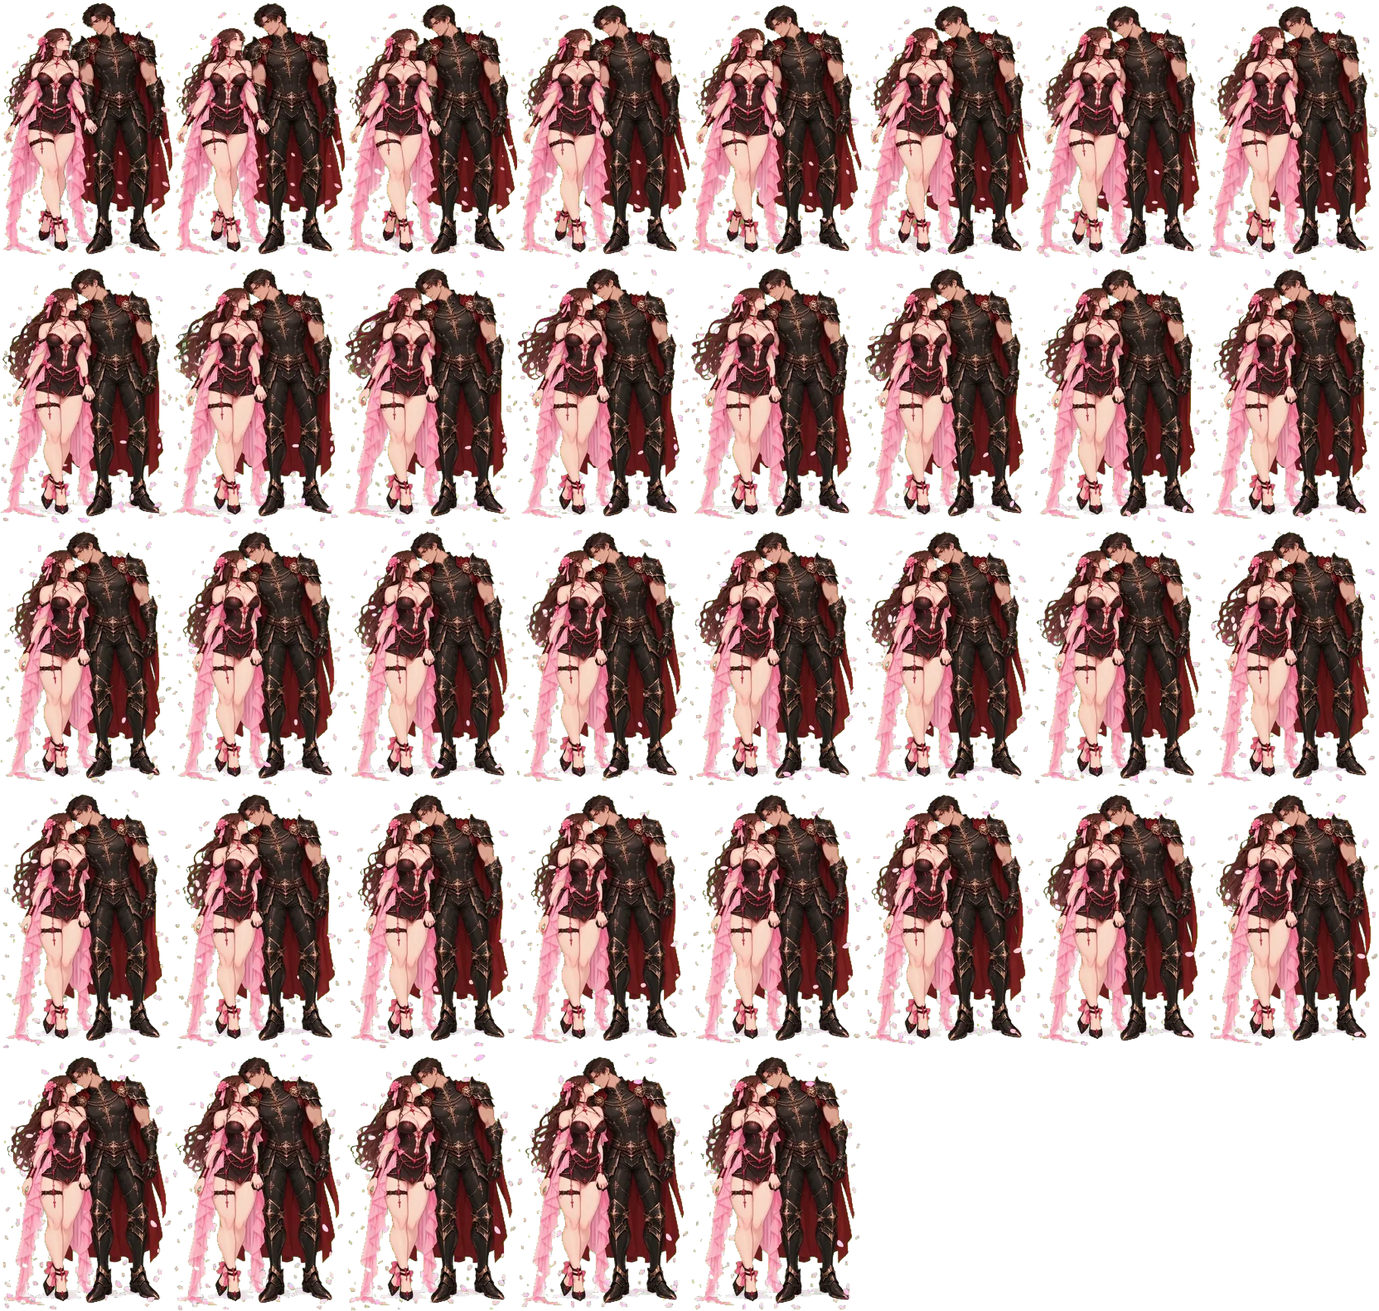
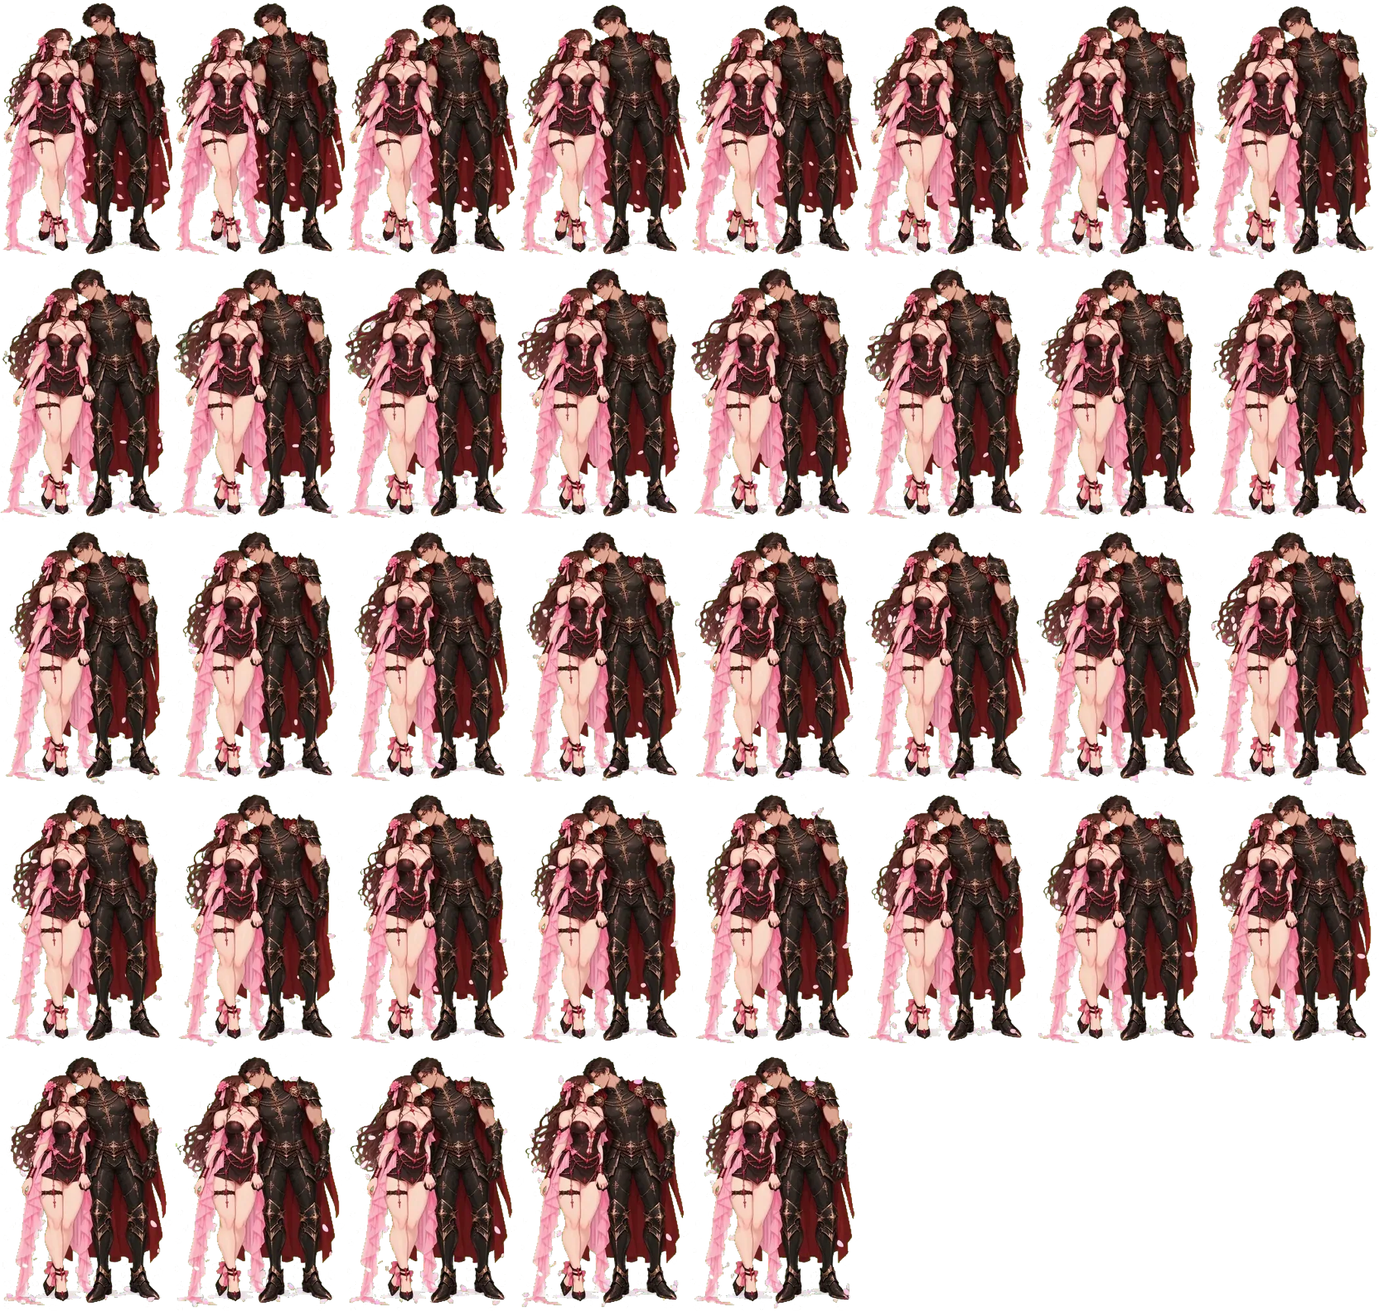
Batalla del reino coreografiada (Ari ataca y salta hacia atrás, onda de choque de Coen, círculo y picos de hielo de Rancek, fuego del dragón); capítulo V: el dibujo empieza en blanco y la pareja se acerca antes de tomarse de la mano; Rancek corriendo sin blancos y más grande

diff --git a/cuento.js b/cuento.js
@@ -355,6 +355,8 @@
         { nombre: 'ari', img: 'assets/personajes/ari-frente.webp', linea: 'assets/personajes/ari-frente-lineart.webp', x: 40, alto: 16, ms: 4200, pausa: 400 },
         { nombre: 'coen', img: 'assets/personajes/coen-frente.webp', linea: 'assets/personajes/coen-frente-lineart.webp', x: 60, alto: 17, ms: 4200,
           texto: { titulo: '…y a Coen,', texto: 'el caballero de capa carmesí.' } },
+        { nombre: 'ari', mueve: 47, ms: 1500, junto: true, sigue: true },                              // se acercan el uno al otro…
+        { nombre: 'coen', mueve: 53, ms: 1500, pausa: 100 },
         { nombre: 'pareja', actor: 'pareja', x: 50, alto: 17, reemplaza: ['ari', 'coen'], efecto: 'brilla', ms: 1800, bucle: [0, 1], cicloMs: 3000,
           texto: { titulo: 'Línea a línea, color a color…', texto: 'se encontraron y se tomaron de la mano.' } },
         { nombre: 'pareja', mueve: 27, ms: 1400, pausa: 100 },                                         // la pareja le hace espacio al logo
@@ -376,17 +378,32 @@
         { nombre: 'arbol', img: 'assets/cuento/popup/arbol.webp', x: 21, alto: 22, fila: 'medio', ms: 300, pausa: 200 },
         { nombre: 'castillo', img: 'assets/cuento/popup/castillo.webp', x: 76, alto: 19, fila: 'medio', ms: 300, pausa: 300 },
         { actor: 'dragon', camina: [0, 1], desde: 50, x: 50, alto: 10, clase: 'vuela', ms: 2600 },          // el dragón despierta y aletea
-        { texto: { titulo: 'Pero de la niebla…', texto: 'salieron monstruitos. Ari saltó con su daga, ágil como el viento, y Coen alzó su espada para protegerla.' }, ms: 300 },
-        { nombre: 'mo1', img: 'assets/cuento/popup/mo-1.webp', x: 62, alto: 7, delante: true, efecto: 'salta', ms: 150, pausa: 100 },
-        { nombre: 'mo2', img: 'assets/cuento/popup/mo-2.webp', x: 72, alto: 7, delante: true, efecto: 'salta', ms: 150, pausa: 100 },
-        { nombre: 'mo3', img: 'assets/cuento/popup/mo-3.webp', x: 82, alto: 7, delante: true, efecto: 'salta', ms: 150, pausa: 100 },
-        { nombre: 'mo4', img: 'assets/cuento/popup/mo-4.webp', x: 91, alto: 7, delante: true, efecto: 'salta', ms: 150, pausa: 300 },
-        { nombre: 'ari', actor: 'ari-salta', x: 38, alto: 18, delante: true, de: 0, a: 1, ms: 2600, pausa: 200 },
-        { nombre: 'coen', actor: 'coen-ataca', x: 50, alto: 16, delante: true, de: 0, a: 1, ms: 2400 },
-        { texto: { titulo: 'Desde el cielo…', texto: 'llegó Rancek volando sobre su báculo, y el dragón lanzó su fuego rosado. ¡Los monstruitos huyeron!' }, ms: 200 },
-        { nombre: 'rancek', img: 'assets/cuento/popup/rancek-vuela.webp', x: 26, alto: 13, clase: 'vuela', efecto: 'flota', ms: 900 },
-        { nombre: 'fuego', img: 'assets/cuento/popup/dragon-fuego.webp', x: 60, alto: 14, clase: 'vuela', reemplaza: 'dragon', ms: 1400 },
-        { quita: ['mo1', 'mo2', 'mo3', 'mo4'], ms: 900 },
+        { texto: { titulo: 'Pero de la niebla…', texto: 'salieron monstruitos.' }, ms: 300 },
+        { actor: 'dragon', ruta: [[0, 50, 0], [1, -16, 8]], ms: 1300, suave: 'ease-in', pausa: 0 },          // el dragón se asusta y se va volando
+        { nombre: 'mo1', img: 'assets/cuento/popup/mo-1.webp', x: 63, alto: 7, delante: true, efecto: 'salta', ms: 150, pausa: 100 },
+        { nombre: 'mo2', img: 'assets/cuento/popup/mo-2.webp', x: 71, alto: 7, delante: true, efecto: 'salta', ms: 150, pausa: 100 },
+        { nombre: 'mo3', img: 'assets/cuento/popup/mo-3.webp', x: 79, alto: 7, delante: true, efecto: 'salta', ms: 150, pausa: 100 },
+        { nombre: 'mo4', img: 'assets/cuento/popup/mo-4.webp', x: 87, alto: 7, delante: true, efecto: 'salta', ms: 150, pausa: 300 },
+        // Ari llega corriendo, ataca a los cuatro con su daga y vuelve de un salto hacia atrás
+        { texto: { titulo: 'Ari corrió hacia ellos…', texto: 'ágil como el viento, y los atacó uno a uno con su daga.' }, nombre: 'ari-corre', img: 'assets/personajes/ari-lado.webp', x: -6, alto: 16, delante: true, clase: 'corre', entra: true, ruta: [[0, -6], [1, 54]], ms: 1500, pausa: 0 },
+        { nombre: 'ari', actor: 'ari-salta', x: 54, alto: 18, delante: true, reemplaza: 'ari-corre', sigue: true, de: 0, a: 1, ms: 2600, pausa: 0,
+          ruta: [[0, 54, 0], [.1, 57, 9], [.2, 60, 1], [.32, 65, 9], [.44, 68, 1], [.56, 73, 9], [.68, 76, 1], [.8, 81, 9], [.92, 84, 1], [1, 84, 1]],
+          fx: [{ tipo: 'tajo', x: 63, ancho: 8, y: 4, tras: 480, golpe: 'mo1' }, { tipo: 'tajo', x: 71, ancho: 8, y: 4, tras: 1100, golpe: 'mo2' }, { tipo: 'tajo', x: 79, ancho: 8, y: 4, tras: 1720, golpe: 'mo3' }, { tipo: 'tajo', x: 87, ancho: 8, y: 4, tras: 2340, golpe: 'mo4' }] },
+        { nombre: 'ari', ruta: [[0, 84, 1, 0], [.5, 62, 26, -200], [1, 38, 0, -360]], ms: 1100, suave: 'ease-out', pausa: 200 },
+        // Coen llega, salta al centro de los monstruos, los golpea con una onda de choque y vuelve a cubrir a Ari
+        { texto: { titulo: 'Entonces llegó Coen…', texto: 'saltó al centro de los monstruos y su espada abrió una onda de choque.' }, nombre: 'coen-corre', img: 'assets/personajes/coen-lado.webp', x: -6, alto: 17, delante: true, clase: 'corre', entra: true, ruta: [[0, -6], [1, 24]], ms: 1200, pausa: 0 },
+        { nombre: 'coen', actor: 'coen-ataca', x: 24, alto: 16, delante: true, reemplaza: 'coen-corre', sigue: true, de: 0, a: 1, ms: 1400, suave: 'cubic-bezier(.3,0,.7,1)', pausa: 0,
+          ruta: [[0, 24, 0], [.55, 58, 30], [1, 75, 0]], fx: { tipo: 'onda', x: 75, ancho: 40, ms: 1000, tras: 1400, golpe: ['mo1', 'mo2', 'mo3', 'mo4'] } },
+        { nombre: 'coen', ruta: [[0, 75, 0], [.5, 60, 20], [1, 45, 0]], ms: 1000, suave: 'ease-out', pausa: 300 },
+        // Rancek llega volando sobre su báculo: círculo mágico bajo los monstruos y picos de hielo
+        { texto: { titulo: 'Desde el cielo…', texto: 'llegó Rancek volando sobre su báculo y abrió un círculo mágico: ¡picos de hielo!' }, nombre: 'rancek', img: 'assets/cuento/popup/rancek-vuela.webp', x: -12, alto: 15, entra: true, ruta: [[0, -12, 30], [1, 24, 15]], ms: 1600, suave: 'ease-out', pausa: 0 },
+        { fx: [{ tipo: 'circulo', x: 75, ancho: 40, ms: 2600 }, { tipo: 'picos', x: 75, ancho: 36, ms: 1700, tras: 900, golpe: ['mo1', 'mo2', 'mo3', 'mo4'] }], ms: 2300 },
+        { nombre: 'rancek', ruta: [[0, 24, 15], [1, 41, 20]], ms: 1100, suave: 'ease-in-out', pausa: 200 },
+        // el dragón vuelve y les lanza su fuego
+        { texto: { titulo: 'Y el dragón rosado…', texto: 'volvió volando y les lanzó su fuego. ¡Los monstruitos desaparecieron!' }, actor: 'dragon', ruta: [[0, -16, 8], [1, 40, 4]], ms: 1500, suave: 'ease-out', pausa: 0 },
+        { nombre: 'fuego', img: 'assets/cuento/popup/dragon-fuego.webp', x: 44, alto: 14, clase: 'vuela espejo', reemplaza: 'dragon', sigue: true, ms: 200, pausa: 0,
+          fx: { tipo: 'llamas', x: 74, ancho: 40, y: 1, ms: 1700, tras: 150, golpe: ['mo1', 'mo2', 'mo3', 'mo4'] } },
+        { muere: ['mo1', 'mo2', 'mo3', 'mo4'], ms: 1500 },
         { quita: ['ari', 'coen', 'rancek', 'fuego'], texto: { titulo: 'Cuando la niebla se despejó…', texto: 'los tres caminaron juntos hacia el castillo. Porque, a pesar de las dificultades, siempre llegarán a la cima: al castillo soñado.' }, ms: 400 },
         { actor: 'dragon', camina: [0, 1], desde: 34, x: 70, alto: 10, clase: 'vuela', ms: 4400, junto: true },   // y vuela hacia el castillo
         { nombre: 'pari', img: 'assets/personajes/ari-lado.webp', camina: [0, 0], desde: 16, x: 50, alto: 16, ms: 4200, delante: true, junto: true },
@@ -407,7 +424,7 @@
     paseo: { carpeta: 'cap6/', hitos: [
       { fondo: 'fondo-paseo.webp', suelo: 'suelo-paseo.webp', titulo: 'Con sus compras puestas…', texto: 'Ari con su vestido de chica mágica y sus botas de plataforma; Coen con su jogger blanco y su polera burdeo.', pasos: [
         { nombre: 'pareja', actor: 'paseo', camina: [0, 1], cicloMs: 1500, desde: 12, x: 58, alto: 17, ms: 5200, delante: true },   // salen a pasear por el reino
-        { texto: { titulo: 'Rancek:', texto: '«¡Espérenme! ¡Yo también voy!»' }, nombre: 'rancek', actor: 'rancek-corre', camina: [0, 1], cicloMs: 900, desde: 4, x: 32, alto: 13, ms: 2600, delante: true }   // y Rancek corre detrás
+        { texto: { titulo: 'Rancek:', texto: '«¡Espérenme! ¡Yo también voy!»' }, nombre: 'rancek', actor: 'rancek-corre', camina: [0, 1], cicloMs: 900, desde: 4, x: 32, alto: 16, ms: 2600, delante: true }   // y Rancek corre detrás
       ] }
     ] },
     vii: { carpeta: 'cap7/', hitos: [
@@ -562,6 +579,7 @@
       } else {
         const t = await tam(ruta(esc, p.img)); w = t.w; hh = t.h; a.classList.add('hito-fija');
         a.innerHTML = '<img alt="" src="' + ruta(esc, p.img) + '">' + (p.linea ? '<img class="hito-linea" alt="" src="' + ruta(esc, p.linea) + '">' : '');
+        if (p.linea) a.classList.add('por-dibujar');
       }
       a._ancho = p.ancho ?? p.alto * w / hh;
       a.classList.add('hito-pop', 'hito-actor'); if (p.delante) a.classList.add('delante'); if (p.fila) a.classList.add('fila-' + p.fila); if (p.clase) a.classList.add(...p.clase.split(' '));
@@ -578,6 +596,25 @@
     });
     // animación que sigue viva en bucle (ida y vuelta, sin salto) mientras la escena esté a la vista
     const vivir = (a, c0, c1, ms, mia) => { if (quieto || c1 <= c0) return; const t0 = performance.now(); a._vive = t0; const paso = t => { if (mia !== vuelta || !a.isConnected || a._vive !== t0) return; const u = ((t - t0) % (2 * ms)) / ms; cuadro(a, c0 + (c1 - c0) * (u < 1 ? u : 2 - u)); requestAnimationFrame(paso); }; requestAnimationFrame(paso); };
+    // recorrido con saltos: puntos [t 0–1, x %, alto sobre el piso (% de la escena), giro°, espejo ±1]
+    const recorrer = (a, p, mia) => new Promise(fin => {
+      a._vive = null; const H = zona.offsetHeight || 1, pts = p.ruta, ms = p.ms || 1200;
+      const kf = pts.map(([t, x, y = 0, g = 0, e = 1]) => ({ offset: t, left: (x - a._ancho / 2) + '%', translate: '0 0 ' + ((y / 100) * H).toFixed(1) + 'px', rotate: 'y ' + g + 'deg', scale: e + ' 1' }));   // el piso está acostado: subir es el eje Z y el giro de un salto, alrededor de la profundidad
+      const fin0 = pts[pts.length - 1];
+      const cerrar = () => { a.style.left = (fin0[1] - a._ancho / 2) + '%'; a.style.translate = '0 0 ' + (((fin0[2] || 0) / 100) * H).toFixed(1) + 'px'; a.style.rotate = 'y ' + (fin0[3] || 0) + 'deg'; a.style.scale = (fin0[4] ?? 1) + ' 1'; };
+      if (quieto) { cerrar(); fin(true); return; }
+      const an = a.animate(kf, { duration: ms, easing: p.suave || 'linear', fill: 'forwards' });
+      const t0 = performance.now(), m = a._m, c0 = m && p.de != null ? m.marcas[p.de] : null, c1 = m && p.a != null ? m.marcas[p.a] : null;
+      if (c0 != null) { const paso = t => { if (mia !== vuelta || !a.isConnected) return; const u = Math.min(1, (t - t0) / ms); cuadro(a, c0 + (c1 - c0) * u); if (u < 1) requestAnimationFrame(paso); }; requestAnimationFrame(paso); }
+      an.onfinish = () => { cerrar(); an.cancel(); fin(mia === vuelta); };
+    });
+    // efectos dibujados sobre el piso: tajo, onda, círculo mágico, picos de hielo, llamas, humo
+    const efecto = (tipo, x, ancho = 10, y = 0, ms = 900) => {
+      const e = document.createElement('div'); e.className = 'hito-fx fx-' + tipo; e.style.left = (x - ancho / 2) + '%'; e.style.width = ancho + '%'; e.style.setProperty('--z', ((y / 100) * (zona.offsetHeight || 1)).toFixed(1) + 'px'); e.style.setProperty('--ms', ms + 'ms');
+      if (tipo === 'picos') e.innerHTML = '<i></i><i></i><i></i><i></i><i></i><i></i><i></i>';
+      if (tipo === 'llamas' || tipo === 'humo') e.innerHTML = '<i></i><i></i><i></i><i></i><i></i>';
+      zona.append(e); setTimeout(() => e.remove(), ms + 200);
+    };
     const caminar = (a, p, mia) => new Promise(fin => {
       const m = a._m, c0 = m ? m.marcas[p.camina[0]] : 0, c1 = m ? m.marcas[p.camina[1]] : 0, t0 = performance.now(), CICLO = p.cicloMs || 1000; a._vive = null;
       a.classList.add('camina'); a.classList.toggle('camina-fija', c1 <= c0);
@@ -592,7 +629,7 @@
     });
     // imagen que se dibuja sola: primero la línea (de arriba hacia abajo) y luego el color
     const dibujar = (a, ms, mia) => new Promise(fin => {
-      a.style.setProperty('--dur', ms + 'ms'); a.classList.add('dibuja');
+      a.style.setProperty('--dur', ms + 'ms'); a.classList.add('dibuja'); a.classList.remove('por-dibujar');
       luego(() => { a.classList.add('colorea'); luego(() => fin(mia === vuelta), ms * .5); }, ms * .65);
     });
     const espera = (ms, mia) => new Promise(fin => luego(() => fin(mia === vuelta), ms));
@@ -617,18 +654,22 @@
         if (p.quita) { [].concat(p.quita).forEach(plegar); if (!(await espera(500, mia))) return; }
         if (p.texto) { if (titulo && p.texto.titulo != null) titulo.textContent = p.texto.titulo; if (texto) texto.textContent = p.texto.texto ?? ''; }
         if (p.app) window.dispatchEvent(new CustomEvent('cuento-app', { detail: { abrir: p.app } }));
+        if (p.fx) [].concat(p.fx).forEach(f => luego(() => { if (mia !== vuelta) return; efecto(f.tipo, f.x, f.ancho, f.y, f.ms); [].concat(f.golpe || []).forEach(n => { const g = actores[n]; if (g) { g.classList.remove('golpeado'); void g.offsetWidth; g.classList.add('golpeado'); } }); }, f.tras || 0));
+        if (p.golpe) [].concat(p.golpe).forEach(n => { const g = actores[n]; if (g) { g.classList.remove('golpeado'); void g.offsetWidth; g.classList.add('golpeado'); } });
+        if (p.muere) [].concat(p.muere).forEach((n, i) => { const g = actores[n]; if (!g) return; delete actores[n]; luego(() => { const x = parseFloat(g.style.left) + g._ancho / 2; g.classList.add('muere'); efecto('humo', x, g._ancho * 1.4, 0, 1000); setTimeout(() => g.remove(), 700); }, i * 120); });
         if (p.evento) { const ev = p.evento; luego(() => { if (mia === vuelta) window.dispatchEvent(new CustomEvent(ev, { detail: { zona } })); }, p.ms || 400); }
         if (!nombre(p)) { if (!(await espera(p.ms || 600, mia))) return; continue; }
         const nuevo = !actores[nombre(p)];
-        const a = await actor(p, p.d ?? .1, !!p.reemplaza);
+        const a = await actor(p, p.d ?? .1, !!p.reemplaza || !!p.entra);   // entra: llega corriendo o volando desde fuera, sin levantarse del papel
         if (p.reemplaza) [].concat(p.reemplaza).forEach(sacar);
-        if (!(nuevo ? false : p.sigue) && !(await espera(nuevo && !p.reemplaza ? 1100 : 300, mia))) return;   // sigue: encadenado al paso anterior, sin respiro
+        if (!(nuevo ? p.entra || (p.reemplaza && p.sigue) : p.sigue) && !(await espera(nuevo && !p.reemplaza ? 1100 : 300, mia))) return;   // sigue: encadenado al paso anterior, sin respiro
         if (p.efecto) a.classList.add(p.efecto);
         if (p.abre && !a.dataset.abre) { a.dataset.abre = p.abre; a.classList.add('clicable'); a.addEventListener('click', () => window.dispatchEvent(new CustomEvent('cuento-app', { detail: { abrir: p.abre } }))); }
         if (p.rotulo && !a.querySelector('.hito-rotulo')) { const r = document.createElement('span'); r.className = 'hito-rotulo'; r.textContent = p.rotulo; a.append(r); }
         let ok;
-        if (p.junto) { if (p.camina) caminar(a, p, mia); else if (a._m && p.a != null) tramo(a, a._m.marcas[p.de ?? 0], a._m.marcas[p.a], p.ms, mia); if (!p.sigue) await espera(120, mia); continue; }   // junto: corre a la par del paso siguiente
+        if (p.junto) { if (p.ruta) recorrer(a, p, mia); else if (p.mueve != null) { a.style.transition = 'left ' + (p.ms || 1200) + 'ms cubic-bezier(.45,0,.3,1)'; a.style.left = (p.mueve - a._ancho / 2) + '%'; } else if (p.camina) caminar(a, p, mia); else if (a._m && p.a != null) tramo(a, a._m.marcas[p.de ?? 0], a._m.marcas[p.a], p.ms, mia); if (!p.sigue) await espera(120, mia); continue; }   // junto: corre a la par del paso siguiente
         if (p.mueve != null) ok = await new Promise(fin => { a.style.transition = 'left ' + (p.ms || 1200) + 'ms cubic-bezier(.45,0,.3,1)'; a.style.left = (p.mueve - a._ancho / 2) + '%'; luego(() => { a.style.transition = ''; fin(mia === vuelta); }, p.ms || 1200); });
+        else if (p.ruta) ok = await recorrer(a, p, mia);
         else if (p.camina) ok = await caminar(a, p, mia);
         else if (p.linea) ok = await dibujar(a, p.ms || 3000, mia);
         else if (a._m && p.a != null) ok = await tramo(a, a._m.marcas[p.de ?? 0], a._m.marcas[p.a], p.ms, mia);

diff --git a/libro.css b/libro.css
@@ -1967,3 +1967,44 @@ html.pantalla-corta .cielo-izq{left:-22vw}html.pantalla-corta .cielo-der{right:-
 .giro-virtual::before,.giro-virtual::after,.giro-virtual > .pagina::before,.giro-virtual > .pagina::after{display:none!important}
 .giro-virtual > .pagina > :not(.pop-escena),.giro-virtual .pop-escena > :not([data-giro]){visibility:hidden!important}
 .libro.acostado .pag.giro-virtual.giro-virtual{background:none!important}
+
+/* ✦ capítulo V: el dibujo empieza en blanco y se traza antes de colorearse */
+.hito-fija.por-dibujar > img{opacity:0}
+/* ✦ batalla del reino: correr, recibir golpes, desaparecer y los efectos dibujados */
+.hito-actor.corre > *{animation:hito-corre .3s ease-in-out infinite alternate}
+@keyframes hito-corre{from{transform:translateY(0) rotate(2deg)}to{transform:translateY(-6%) rotate(-3deg)}}
+.hito-actor.espejo > :not(.hito-rotulo){scale:-1 1}
+.hito-actor.golpeado{animation:hito-golpe .45s ease-out}
+.hito-actor.golpeado > *{animation:hito-sacude .45s ease-out}
+@keyframes hito-sacude{25%{translate:-6% 0}50%{translate:6% 0}75%{translate:-3% 0}}
+@keyframes hito-golpe{0%{filter:brightness(3) drop-shadow(0 0 10px #fff)}100%{filter:drop-shadow(2px 0 0 #fff) drop-shadow(-2px 0 0 #fff) drop-shadow(0 -2px 0 #fff)}}
+.hito-actor.muere{transition:transform .6s ease-in,opacity .6s ease-in!important;transform:rotateX(-90deg) scale(.1) rotate(25deg)!important;opacity:0!important}
+.hito-fx{position:absolute;bottom:30%;pointer-events:none;z-index:7;transform-origin:50% 100%;transform:translateZ(var(--z,0px)) rotateX(-90deg)}
+.hito-fx:is(.fx-onda,.fx-circulo){transform:translateZ(1px)}
+.libro.una.acostado .hito-fx{bottom:38%}
+/* tajo de daga: media luna blanca con brillo rosado */
+.fx-tajo{aspect-ratio:1;border-radius:50%;border-top:5px solid #fff;border-right:3px solid #ffe3f1;filter:drop-shadow(0 0 6px #ff9fd0) drop-shadow(0 0 12px #fff);animation:fx-tajo var(--ms) ease-out forwards}
+@keyframes fx-tajo{0%{transform:rotate(-80deg) scale(.4);opacity:0}25%{opacity:1}100%{transform:rotate(70deg) scale(1.15);opacity:0}}
+/* onda de choque: anillo sobre el piso que se expande, con polvo */
+.fx-onda{aspect-ratio:2.2/1;translate:0 40%;border-radius:50%;border:5px solid #fff;box-shadow:0 0 0 3px #f3b0d4,0 0 22px 6px #ffd6ec,inset 0 0 18px #ffd6ec;animation:fx-onda var(--ms) cubic-bezier(.2,.7,.3,1) forwards}
+@keyframes fx-onda{0%{transform:scale(.1);opacity:1}70%{opacity:.9}100%{transform:scale(1.25);opacity:0}}
+/* círculo mágico: anillos de tinta celeste que giran bajo los monstruos */
+.fx-circulo{aspect-ratio:2.2/1;translate:0 40%;border-radius:50%;border:4px double #bfe9ff;background:radial-gradient(ellipse at center,rgba(170,225,255,.35),rgba(120,190,255,.15) 55%,transparent 70%);box-shadow:0 0 18px 4px #9fdcff,inset 0 0 0 10px rgba(255,255,255,.12),inset 0 0 0 12px #d6f2ff;animation:fx-circulo var(--ms) ease-in-out forwards}
+@keyframes fx-circulo{0%{transform:scale(0) rotate(0);opacity:0}15%{transform:scale(1) rotate(40deg);opacity:1}80%{opacity:1}100%{transform:scale(1.08) rotate(160deg);opacity:0}}
+/* picos de hielo que brotan del círculo */
+.fx-picos{aspect-ratio:2.2/1;display:flex;align-items:flex-end;justify-content:space-around;filter:drop-shadow(2px 0 0 #fff) drop-shadow(-2px 0 0 #fff) drop-shadow(0 -2px 0 #fff) drop-shadow(0 0 10px #a9e3ff)}
+.fx-picos i{width:12%;height:0;clip-path:polygon(50% 0,100% 100%,0 100%);background:linear-gradient(180deg,#fff 0,#d9f5ff 25%,#8fd2f5 70%,#5aa9dc);animation:fx-pico var(--ms) cubic-bezier(.2,1.4,.4,1) forwards}
+.fx-picos i:nth-child(2){animation-delay:.08s;width:10%}.fx-picos i:nth-child(3){animation-delay:.16s;width:14%}.fx-picos i:nth-child(4){animation-delay:.04s}.fx-picos i:nth-child(5){animation-delay:.12s;width:11%}.fx-picos i:nth-child(6){animation-delay:.2s;width:13%}.fx-picos i:nth-child(7){animation-delay:.1s;width:9%}
+@keyframes fx-pico{0%{height:0}35%{height:100%}75%{height:95%;opacity:1}100%{height:95%;opacity:0}}
+.fx-picos i:nth-child(odd){--h:100%}
+/* llamas rosadas sobre los monstruos */
+.fx-llamas{aspect-ratio:3/1;display:flex;align-items:flex-end;justify-content:space-around}
+.fx-llamas i{width:20%;height:100%;border-radius:50% 50% 45% 45% / 65% 65% 35% 35%;background:radial-gradient(ellipse at 50% 80%,#fff6b0 0,#ffc65c 25%,#ff7fb5 55%,#e0459a 80%,transparent 82%);transform-origin:50% 100%;filter:drop-shadow(0 0 8px #ff9fd0);animation:fx-llama .35s ease-in-out infinite alternate,fx-llama-sale var(--ms) ease-in forwards}
+.fx-llamas i:nth-child(2n){animation-delay:.12s,0s;height:80%}.fx-llamas i:nth-child(3n){animation-delay:.22s,0s;height:90%}
+@keyframes fx-llama{from{transform:scaleY(.85) skewX(-4deg)}to{transform:scaleY(1.08) skewX(5deg)}}
+@keyframes fx-llama-sale{0%{opacity:0}12%{opacity:1}80%{opacity:1}100%{opacity:0}}
+/* humo de papel cuando un monstruo desaparece */
+.fx-humo{aspect-ratio:1.4/1;display:flex;align-items:flex-end;justify-content:center;flex-wrap:wrap}
+.fx-humo i{width:42%;aspect-ratio:1;border-radius:50%;background:radial-gradient(circle,#fff 0,#f2e6ff 55%,rgba(230,215,255,0) 72%);margin:-8%;animation:fx-humo var(--ms) ease-out forwards}
+.fx-humo i:nth-child(2n){animation-delay:.08s}.fx-humo i:nth-child(3n){animation-delay:.16s}
+@keyframes fx-humo{0%{transform:scale(.2);opacity:0}30%{opacity:1}100%{transform:scale(1.4) translateY(-30%);opacity:0}}

diff --git a/index.html b/index.html
@@ -12,7 +12,7 @@
   <link rel="preconnect" href="https://fonts.googleapis.com"><link rel="preconnect" href="https://fonts.gstatic.com" crossorigin>
   <link rel="stylesheet" href="https://fonts.googleapis.com/css2?family=Cinzel:wght@500;700&family=Mali:wght@400;600;700&family=Cormorant+Garamond:ital,wght@0,500;0,600;1,500&display=swap">
   <link rel="stylesheet" href="styles.css?v=20261002a">
-  <link rel="stylesheet" href="libro.css?v=20261013e">
+  <link rel="stylesheet" href="libro.css?v=20261015b">
   <link rel="stylesheet" href="tema-claro.css?v=20261002a">
   <link rel="stylesheet" href="intro.css?v=20260929f">
   <link rel="icon" href="assets/emblema-estrella.png">
@@ -32,7 +32,7 @@
   <script src="fondo-acuarela.js?v=20261007a" defer></script>
   <script src="secciones.js?v=20261011a" defer></script>
   <script src="libro.js?v=20261013b" defer></script>
-  <script src="cuento.js?v=20261014d" defer></script>
+  <script src="cuento.js?v=20261015c" defer></script>
   <script src="vendor/gsap.min.js" defer></script>
   <script src="vendor/MotionPathPlugin.min.js" defer></script>
   <script src="intro-trazos.js?v=20260929c" defer></script>
